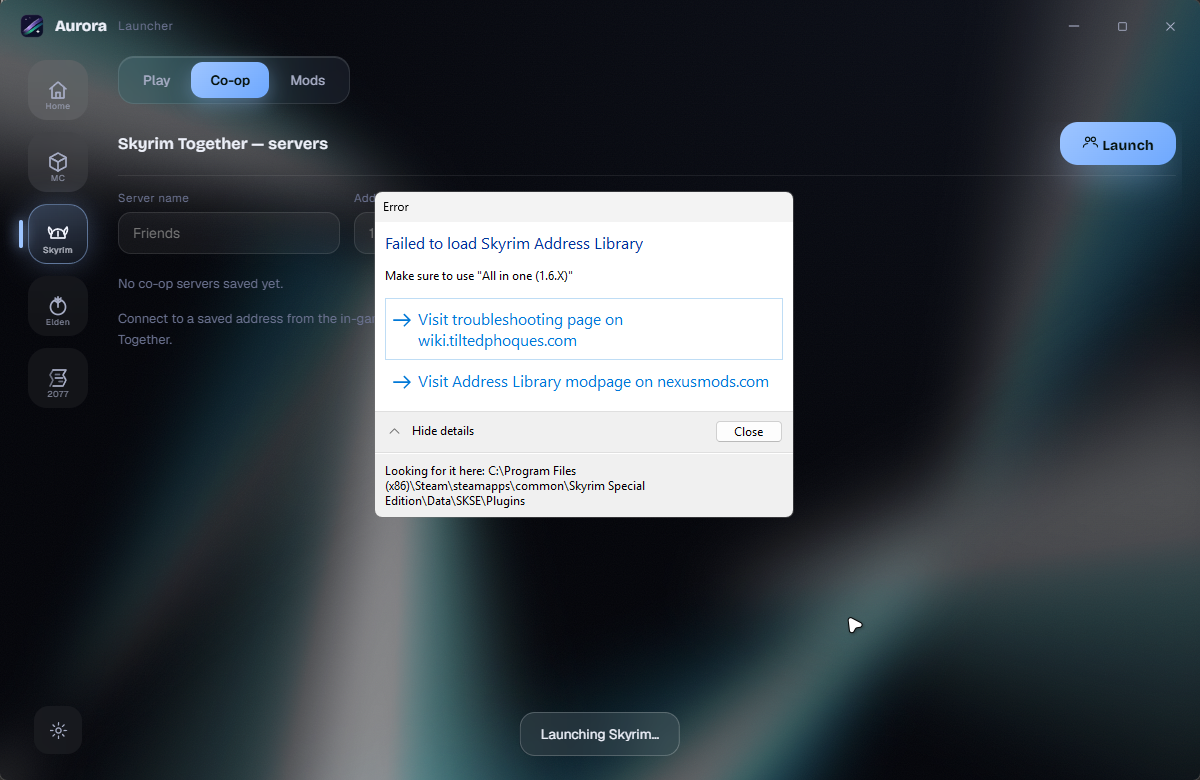
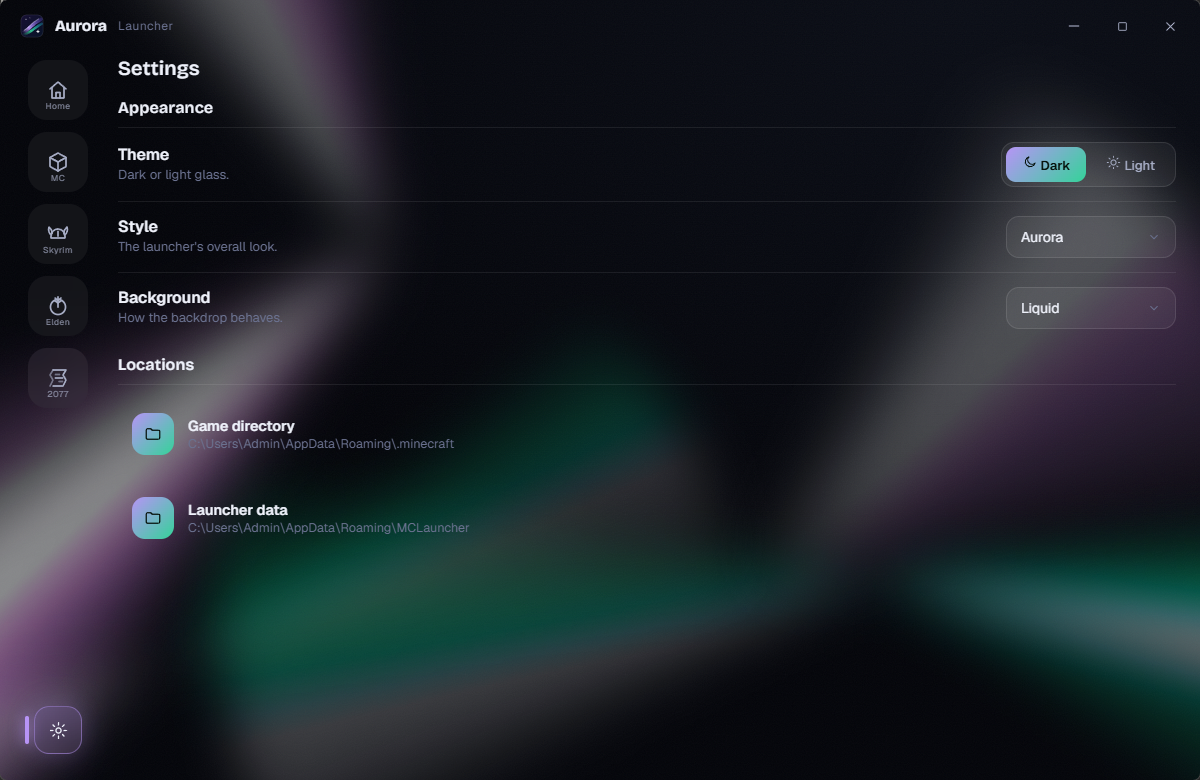
docs: refresh screenshot gallery — Cyberpunk 2077 + new settings shot

diff --git a/README.md b/README.md
@@ -33,8 +33,10 @@ Most launchers are powerful but cluttered, or pretty but limited. Aurora aims fo
 | ![Minecraft instances](docs/screenshots/01-minecraft.png) | ![Server plugins](docs/screenshots/06-plugins.png) |
 | **Skyrim — SKSE & Skyrim Together** | **Elden Ring — Seamless Co-op** |
 | ![Skyrim](docs/screenshots/02-skyrim.png) | ![Elden Ring](docs/screenshots/03-elden-ring.png) |
-| **Content browser (per instance)** | **Themes & settings** |
-| ![Content browser](docs/screenshots/05-content.png) | ![Settings](docs/screenshots/04-settings.png) |
+| **Cyberpunk 2077 — CyberpunkMP & CET** | **Themes & settings** |
+| ![Cyberpunk 2077](docs/screenshots/08-cyberpunk.png) | ![Settings](docs/screenshots/04-settings.png) |
+
+![Content browser](docs/screenshots/05-content.png)
 
 > The whole UI re-tints to each game — green for Minecraft, blue for Skyrim, gold for Elden Ring, neon yellow for Cyberpunk — with the launcher itself in aurora purple.
 